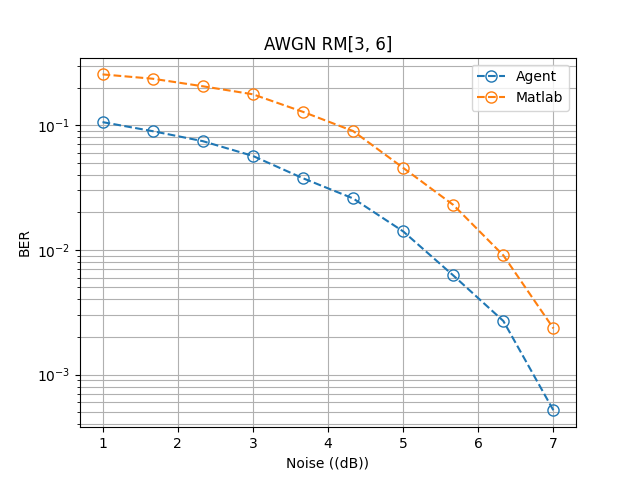
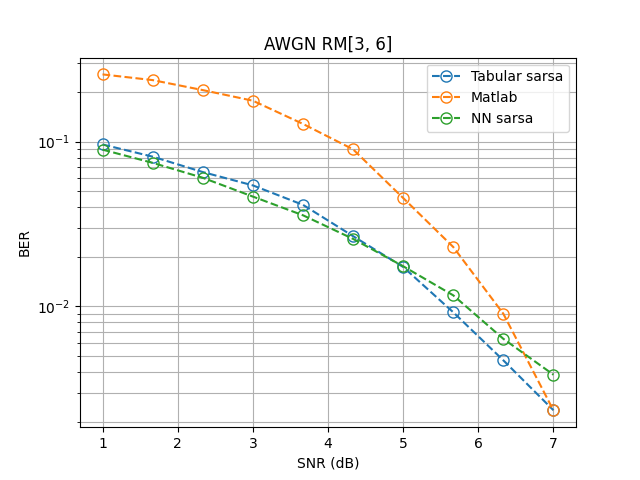
April 2nd
Figures

diff --git a/main.py b/main.py
@@ -45,10 +45,10 @@ def fit(agent, channel, noise, type=None):
     """
     env = BitFlippingEnv(agent, channel, noise)
     if type == 'tabular':
-        Q = sarsa.train(env, int(3e6), 0.1)
+        Q = sarsa.train(env, int(3e5), 0.1)
         return Q, env
     elif type == 'param':
-        w, v = sarsa_param.train(env, int(3e5), 0.01)
+        w, v = sarsa_param.train(env, int(3e3), 0.1)
         return w, v, env
     else:
         raise ValueError("Invalid type. Specify type as tabular or param")
@@ -91,11 +91,11 @@ def BHC_BSC():
     code_type = 'BCH'
     code_label = ('63', '45')
     channel = 'BSC'
-    noise = 0.2 # training noise
+    noise = 0.1 # training noise
     dB_range = np.linspace(0.01, 0.45, 10) # testing noise
 
     # saving
-    figure_name = "BER_sarsa" + code_type + "_" + code_label[0] + "_" + code_label[1] + "_" + channel
+    figure_name = "BER_sarsa" +"_"+ code_type + "_" + code_label[0] + "_" + code_label[1] + "_" + channel
 
     # tabular setting
     agent_tabular = BCH_agent()
@@ -127,11 +127,11 @@ def RM_BSC():
     code_type = 'RM'
     code_label = ('3', '6')
     channel = 'BSC'
-    noise = 0.2 # training noise
+    noise = 0.1 # training noise
     dB_range = np.linspace(0.01, 0.45, 10) # testing noise
 
     # saving
-    figure_name = "BER_sarsa" + code_type + "_" + code_label[0] + "_" + code_label[1] + "_" + channel
+    figure_name = "BER_sarsa_" + code_type + "_" + code_label[0] + "_" + code_label[1] + "_" + channel
 
     # tabular setting
     agent_tabular = BCH_agent()
@@ -163,11 +163,11 @@ def BHC_AWGN():
     code_type = 'BCH'
     code_label = ('63', '45')
     channel = 'AWGN'
-    noise = 2 # training noise
+    noise = 4 # training noise
     dB_range = np.linspace(1, 7, 10) # testing noise
 
     # saving
-    figure_name = "BER_sarsa" + code_type + "_" + code_label[0] + "_" + code_label[1] + "_" + channel
+    figure_name = "BER_sarsa_" + code_type + "_" + code_label[0] + "_" + code_label[1] + "_" + channel
 
     # tabular setting
     agent_tabular = BCH_agent()
@@ -198,11 +198,11 @@ def RM_AWGN():
     code_type = 'RM'
     code_label = ('3', '6')
     channel = 'AWGN'
-    noise = 2 # training noise
+    noise = 4 # training noise
     dB_range = np.linspace(1, 7, 10) # testing noise
 
     # saving
-    figure_name = "BER_sarsa" + code_type + "_" + code_label[0] + "_" + code_label[1] + "_" + channel
+    figure_name = "BER_sarsa_" + code_type + "_" + code_label[0] + "_" + code_label[1] + "_" + channel
 
     # tabular setting
     agent_tabular = BCH_agent()

diff --git a/sarsa_param.py b/sarsa_param.py
@@ -49,8 +49,8 @@ def train(env, num_episodes, alpha, mov_avg=1000, gamma=0.99, EbN0=1):
             print("\rEpisode {}/{}".format(i_episode, num_episodes), end="")
             sys.stdout.flush()   
             eps = max(eps*0.9, 1e-3)
-            for param_group in optimizer.param_groups:
-                param_group['lr'] = max(param_group['lr'] * 0.9, 1e-6)
+        for param_group in optimizer.param_groups:
+            param_group['lr'] = max(param_group['lr'] * 0.9, 1e-6)
         
         state = env.reset()
         w_numpy = w.detach().numpy()
@@ -100,10 +100,10 @@ def train(env, num_episodes, alpha, mov_avg=1000, gamma=0.99, EbN0=1):
             avg_scores.append(np.mean(tmp_scores))
     
     # plot performance      
-    plt.plot(np.linspace(0,num_episodes,len(avg_scores), endpoint=False), np.asarray(avg_scores))
-    plt.xlabel('Episode Number')
-    plt.ylabel('Average Reward (Over Next %d Episodes)' % mov_avg)
-    plt.savefig('./figs/reward_fun_sarsa_RM_3_6.png')
+    # plt.plot(np.linspace(0,num_episodes,len(avg_scores), endpoint=False), np.asarray(avg_scores))
+    # plt.xlabel('Episode Number')
+    # plt.ylabel('Average Reward (Over Next %d Episodes)' % mov_avg)
+    # plt.savefig('./figs/reward_fun_sarsa_RM_3_6.png')
     # plt.show()
     print(('Best Average Reward over %d Episodes: ' % mov_avg), np.max(avg_scores))    
     env.w = w.detach().numpy()

diff --git a/sarsa.py b/sarsa.py
@@ -50,10 +50,10 @@ def train(env, num_episodes, alpha, mov_avg=1000, gamma=0.99, EbN0=1):
             avg_scores.append(np.mean(tmp_scores))
     
     # plot performance      
-    plt.plot(np.linspace(0,num_episodes,len(avg_scores), endpoint=False), np.asarray(avg_scores))
-    plt.xlabel('Episode Number')
-    plt.ylabel('Average Reward (Over Next %d Episodes)' % mov_avg)
-    plt.savefig('./figs/reward_fun_sarsa_RM_3_6.png')
+    # plt.plot(np.linspace(0,num_episodes,len(avg_scores), endpoint=False), np.asarray(avg_scores))
+    # plt.xlabel('Episode Number')
+    # plt.ylabel('Average Reward (Over Next %d Episodes)' % mov_avg)
+    # plt.savefig('./figs/reward_fun_sarsa_RM_3_6.png')
     # plt.show()
     print(('Best Average Reward over %d Episodes: ' % mov_avg), np.max(avg_scores))   
     env.Q = Q 

diff --git a/utils.py b/utils.py
@@ -14,7 +14,7 @@ def plot_BER(x_vars, y_tab, y_param,  bench, units, title, figure_name):
     plt.grid(visible=True, which='major', axis='x')
     plt.legend()
     plt.savefig('./figs/' + figure_name + '.png')
-    # plt.show()
+    plt.show()
 
 _funcs = {}
 
